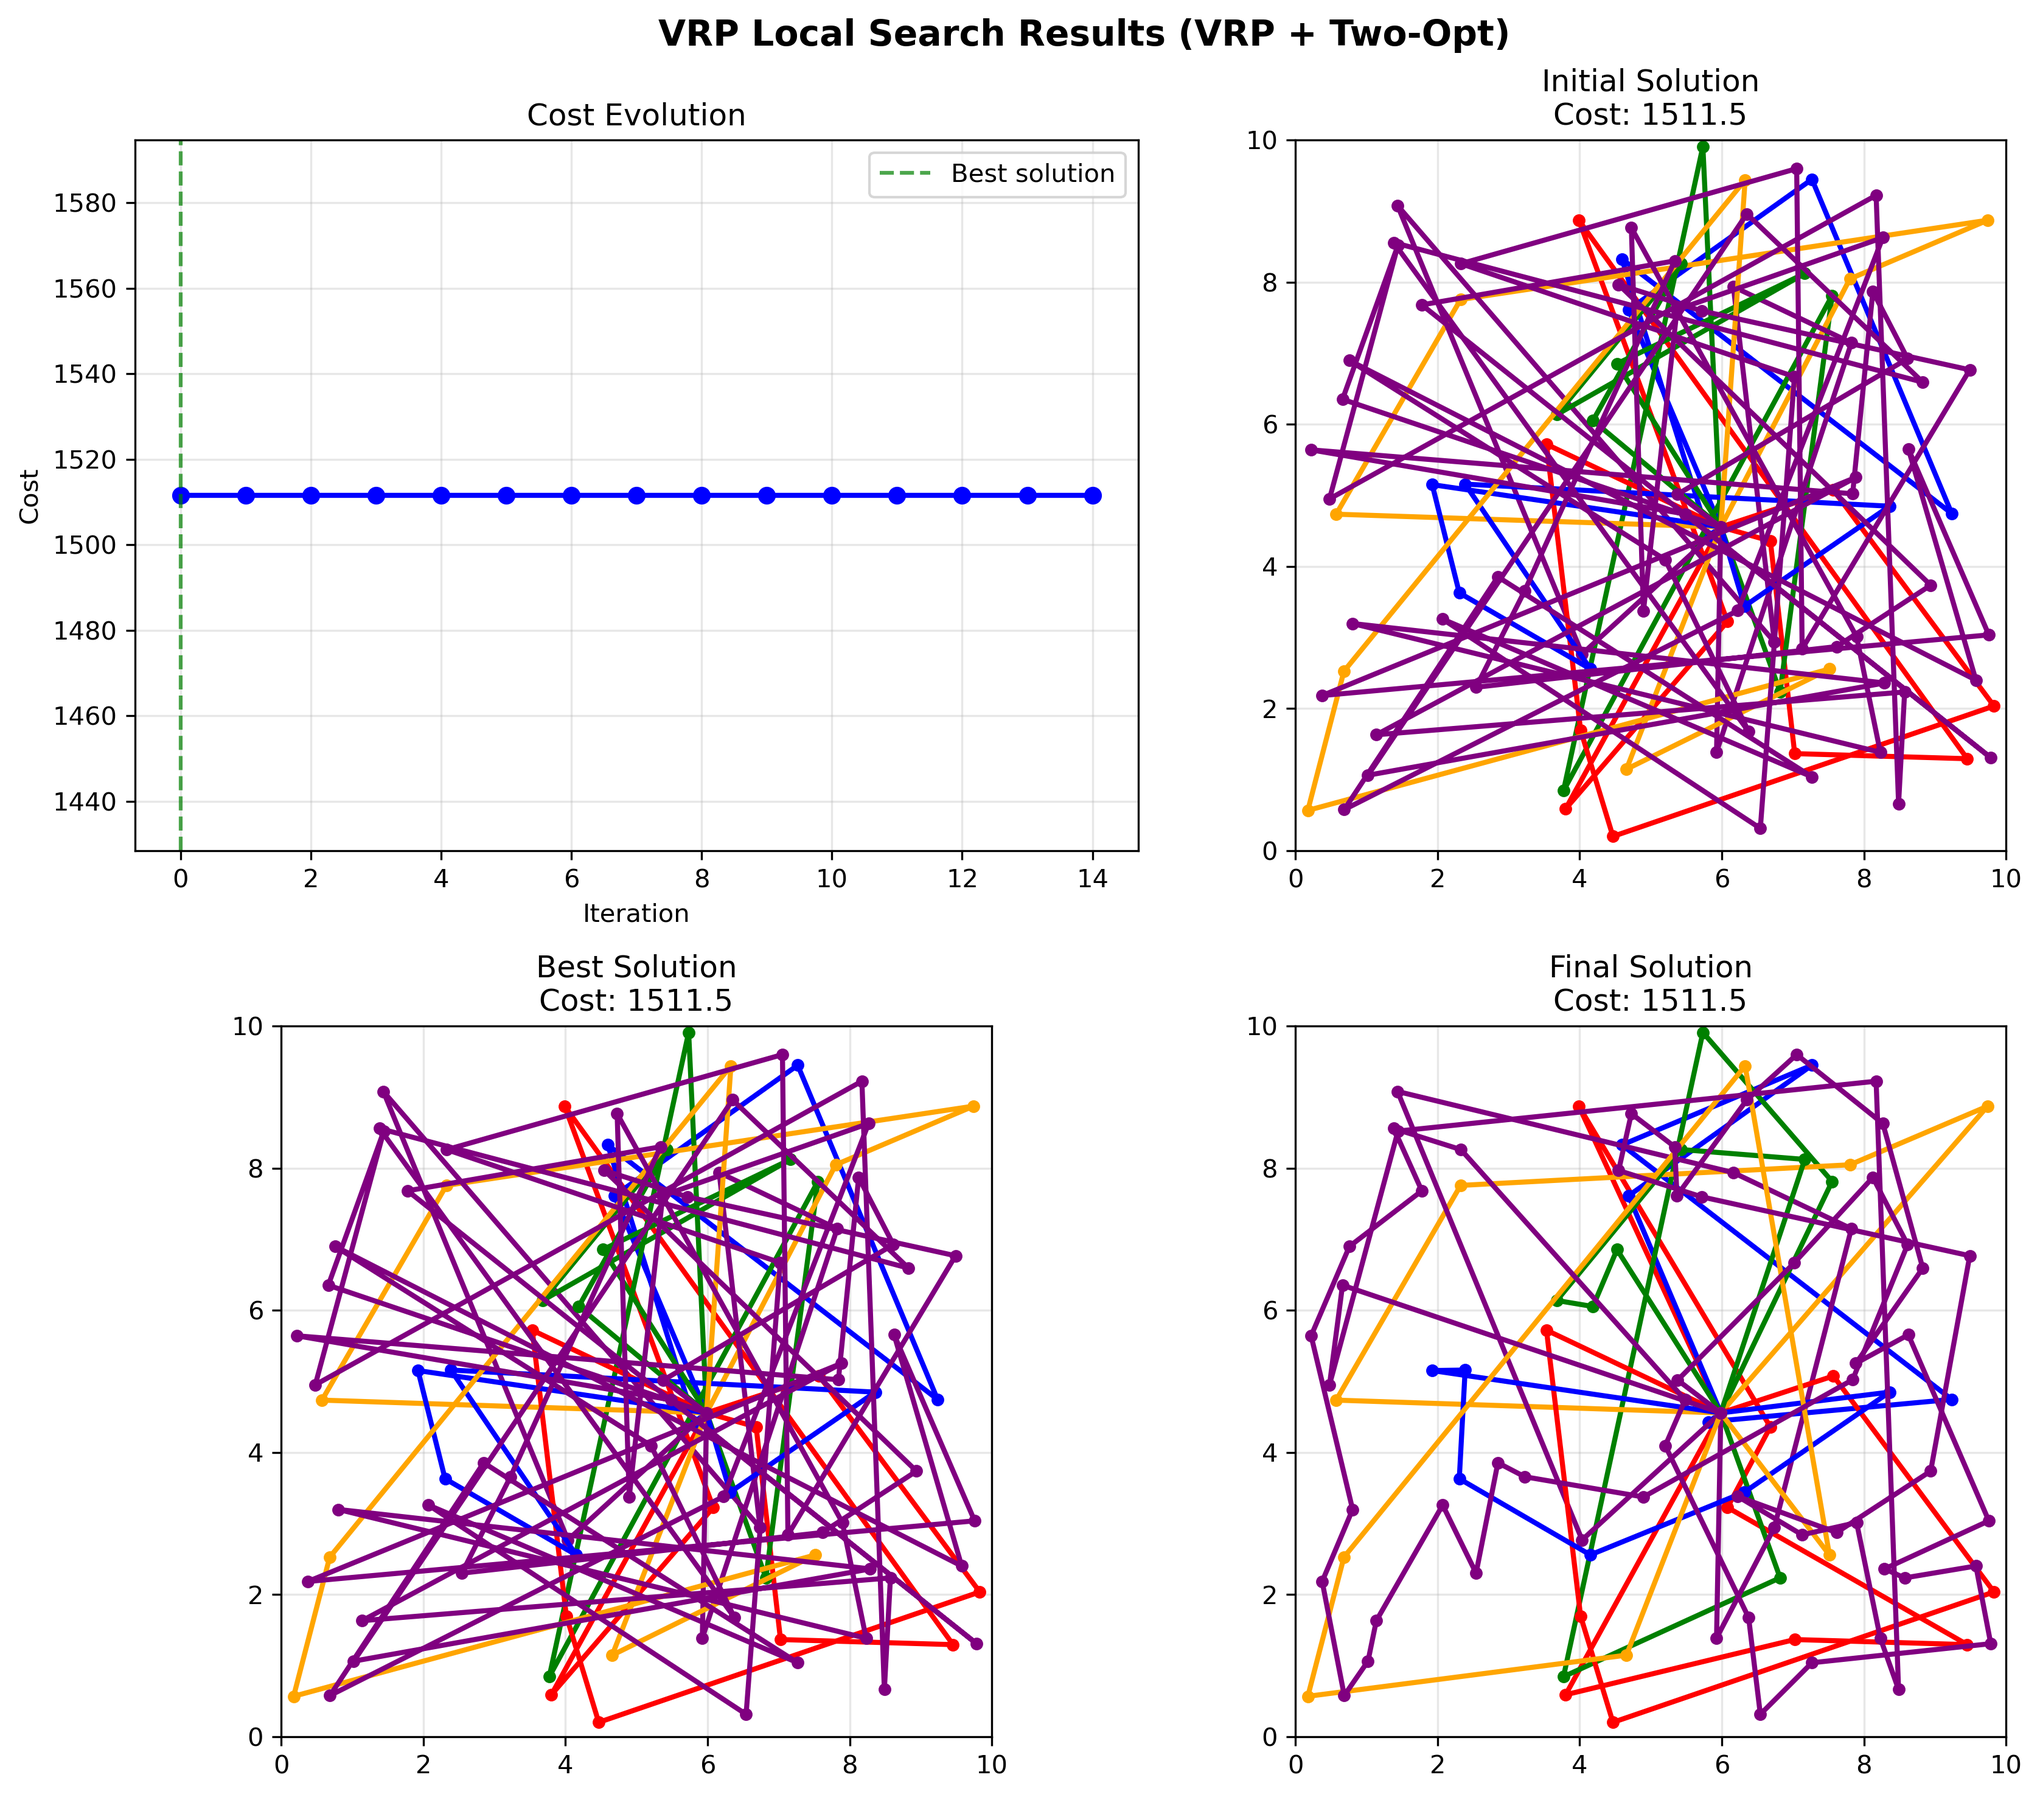
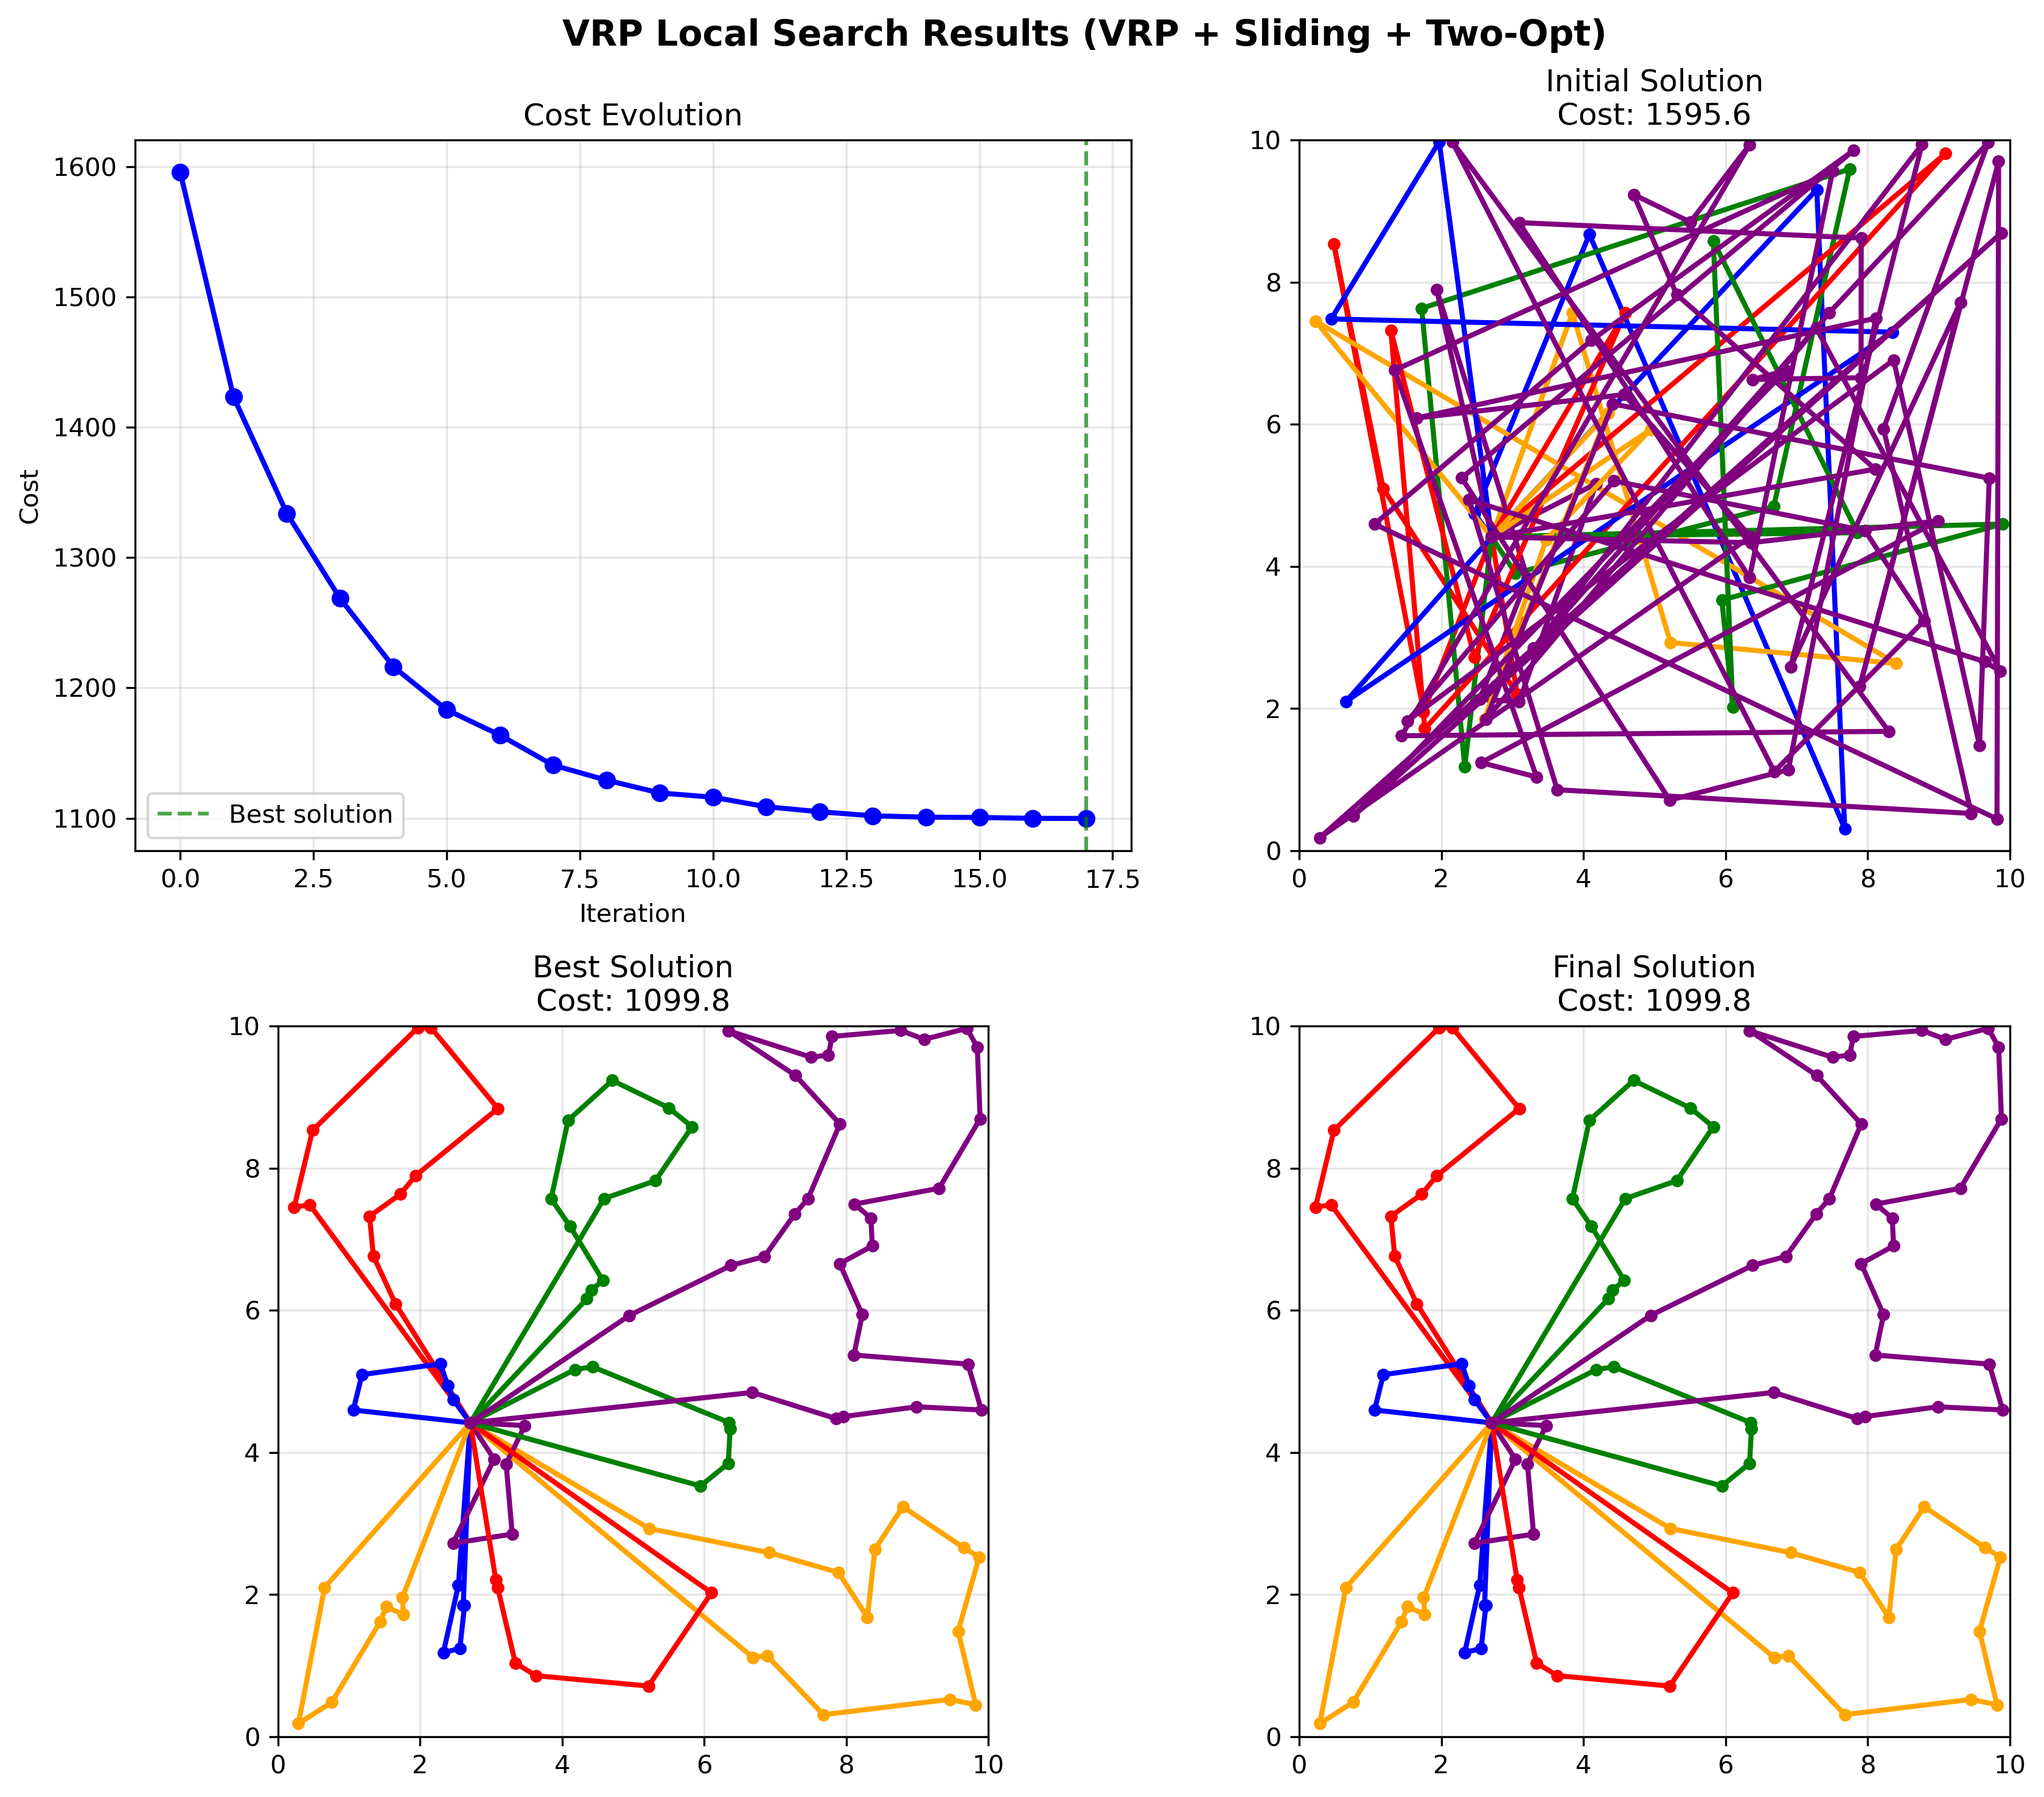
update

diff --git a/test_vrp_pybind.py b/test_vrp_pybind.py
@@ -158,10 +158,11 @@ def main(num_locations=20, num_vehicles=5, num_orders=15, vehicle_capacity=100):
             
         cuopt_env.sync_streams()
         
-        # Perform both VRP and Two-Opt searches
+        # Perform VRP, Sliding, and Two-Opt searches
         vrp_found = cuopt_env.perform_vrp_search()
+        sliding_found = cuopt_env.run_sliding_search()
         two_opt_found = cuopt_env.run_two_opt_search()
-        move_found = vrp_found or two_opt_found
+        move_found = vrp_found or sliding_found or two_opt_found
         
         cuopt_env.restore_found_nodes()
         cuopt_env.sync_streams()
@@ -180,6 +181,8 @@ def main(num_locations=20, num_vehicles=5, num_orders=15, vehicle_capacity=100):
             improvements = []
             if vrp_found:
                 improvements.append("VRP")
+            if sliding_found:
+                improvements.append("Sliding")
             if two_opt_found:
                 improvements.append("2-Opt")
             print(f"  Iteration {iteration}: ✓ Cost = {current_cost:.2f} ({'+'.join(improvements)})")
@@ -215,7 +218,7 @@ def create_local_search_visualization(solutions, costs, node_coords):
     
     # Create figure
     fig, (ax1, ax2) = plt.subplots(2, 2, figsize=(12, 10))
-    fig.suptitle('VRP Local Search Results (VRP + Two-Opt)', fontsize=14, fontweight='bold')
+    fig.suptitle('VRP Local Search Results (VRP + Sliding + Two-Opt)', fontsize=14, fontweight='bold')
     
     # Cost evolution
     ax1[0].plot(range(len(costs)), costs, 'bo-', linewidth=2, markersize=6)

diff --git a/cpp/include/cuopt/routing/pybind/pybind_vrp_interface.hpp b/cpp/include/cuopt/routing/pybind/pybind_vrp_interface.hpp
@@ -64,6 +64,9 @@ public:
     
     // Two-opt search method - intra-route optimization
     bool run_two_opt_search();
+    
+    // Sliding search method - sliding window optimization
+    bool run_sliding_search();
 
     // Resource management methods - following cuOpt's pattern
     void acquire_resource();
@@ -111,6 +114,7 @@ public:
                                const std::vector<int>& vehicle_ids);
     bool perform_vrp_search_impl();
     bool run_two_opt_search_impl();
+    bool run_sliding_search_impl();
     void setup_solution_impl(const std::vector<std::vector<int>>& routes, 
                             const std::vector<int>& vehicle_ids);
     void validate_routes(const std::vector<std::vector<int>>& routes, const std::string& context);

diff --git a/vrp_demo.py b/vrp_demo.py
@@ -78,7 +78,12 @@ def perform_local_search(cuopt_env):
         cuopt_env.sample_nodes_to_search()
         cuopt_env.sync_streams()
         
-        move_found = cuopt_env.perform_vrp_search()
+        # Perform all available search operators
+        vrp_found = cuopt_env.perform_vrp_search()
+        sliding_found = cuopt_env.run_sliding_search()
+        two_opt_found = cuopt_env.run_two_opt_search()
+        move_found = vrp_found or sliding_found or two_opt_found
+        
         cuopt_env.restore_found_nodes()
         cuopt_env.sync_streams()
         
